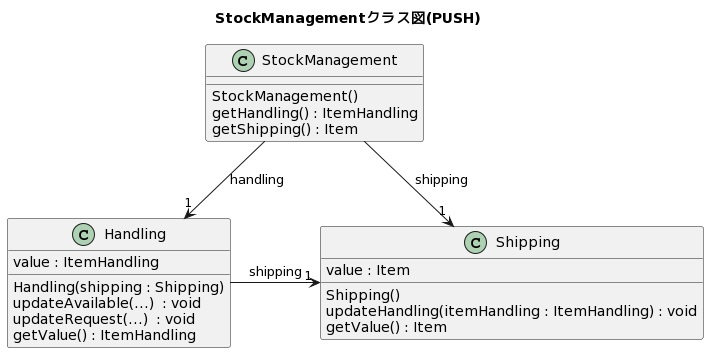
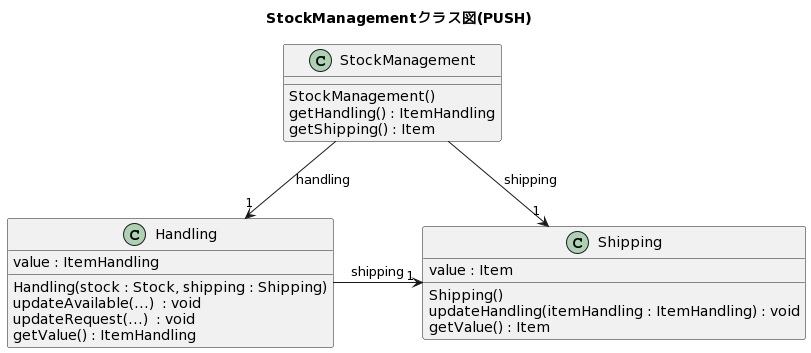
EnvironmentAlgolike.html へのリンクが間違っていたのを修正． StockManagementのクラス図のHandlingクラスのコンストラクタの引数が足りなかったのを修正． Closing.html から最終アンケートへのリンクが間違っていたのを修正．

diff --git a/Closing.html b/Closing.html
@@ -14,7 +14,7 @@
 <p>
 最後に実験全体に関するアンケートにお答えいただき，実験は終了となります．<br>
 </p>
-<a href="https://docs.google.com/forms/d/e/1FAIpQLSdP3rJVBaueHoxGjdstWuoLJSlLZeREn-b8y1rkFdMRBAk3BQ/viewform?usp=sf_link" target="_blank">最終アンケートはこちら</a>
+<a href="https://docs.google.com/forms/d/e/1FAIpQLSd0FoICAIy1JLpfi6hOThPXk2TZsOsmnIM7tHADuzwUZ-oz9g/viewform?usp=sf_link" target="_blank">最終アンケートはこちら</a>
 
 <p>    
 <p>

diff --git a/courseA/DescriptionAlgolike.html b/courseA/DescriptionAlgolike.html
@@ -60,7 +60,7 @@
 
 <p>プレイヤーの手札のカードが全て表になったとき、そのプレイヤーはゲームに敗北します。</p>
 <p style="margin-bottom:3em;"></p>
-<a href="EnvironmentAlgoLike.html">次へ</a>
+<a href="EnvironmentAlgolike.html">次へ</a>
 <p style="margin-bottom:5em;"></p>
     
 </body>

diff --git a/courseB/DescriptionAlgolike.html b/courseB/DescriptionAlgolike.html
@@ -60,7 +60,7 @@
 
 <p>プレイヤーの手札のカードが全て表になったとき、そのプレイヤーはゲームに敗北します。</p>
 <p style="margin-bottom:3em;"></p>
-<a href="EnvironmentAlgoLike.html">次へ</a>
+<a href="EnvironmentAlgolike.html">次へ</a>
 <p style="margin-bottom:5em;"></p>
     
 </body>

diff --git a/courseC/DescriptionAlgolike.html b/courseC/DescriptionAlgolike.html
@@ -60,7 +60,7 @@
 
 <p>プレイヤーの手札のカードが全て表になったとき、そのプレイヤーはゲームに敗北します。</p>
 <p style="margin-bottom:3em;"></p>
-<a href="EnvironmentAlgoLike.html">次へ</a>
+<a href="EnvironmentAlgolike.html">次へ</a>
 <p style="margin-bottom:5em;"></p>
     
 </body>

diff --git a/courseD/DescriptionAlgolike.html b/courseD/DescriptionAlgolike.html
@@ -60,7 +60,7 @@
 
 <p>プレイヤーの手札のカードが全て表になったとき、そのプレイヤーはゲームに敗北します。</p>
 <p style="margin-bottom:3em;"></p>
-<a href="EnvironmentAlgoLike.html">次へ</a>
+<a href="EnvironmentAlgolike.html">次へ</a>
 <p style="margin-bottom:5em;"></p>
     
 </body>
